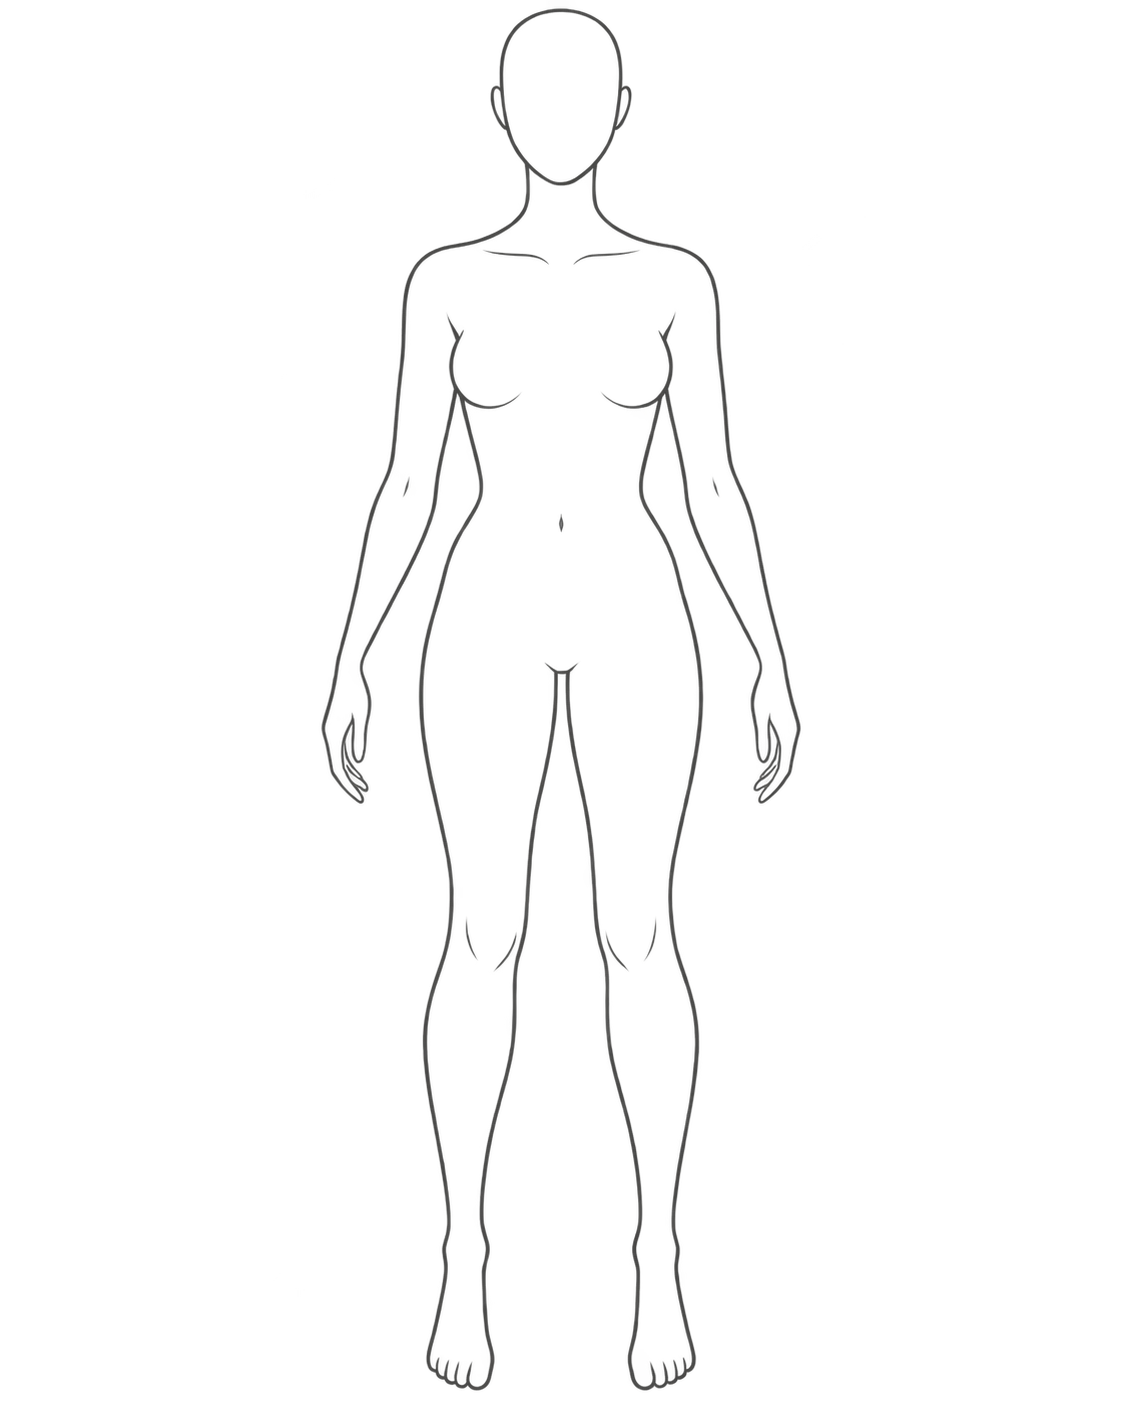
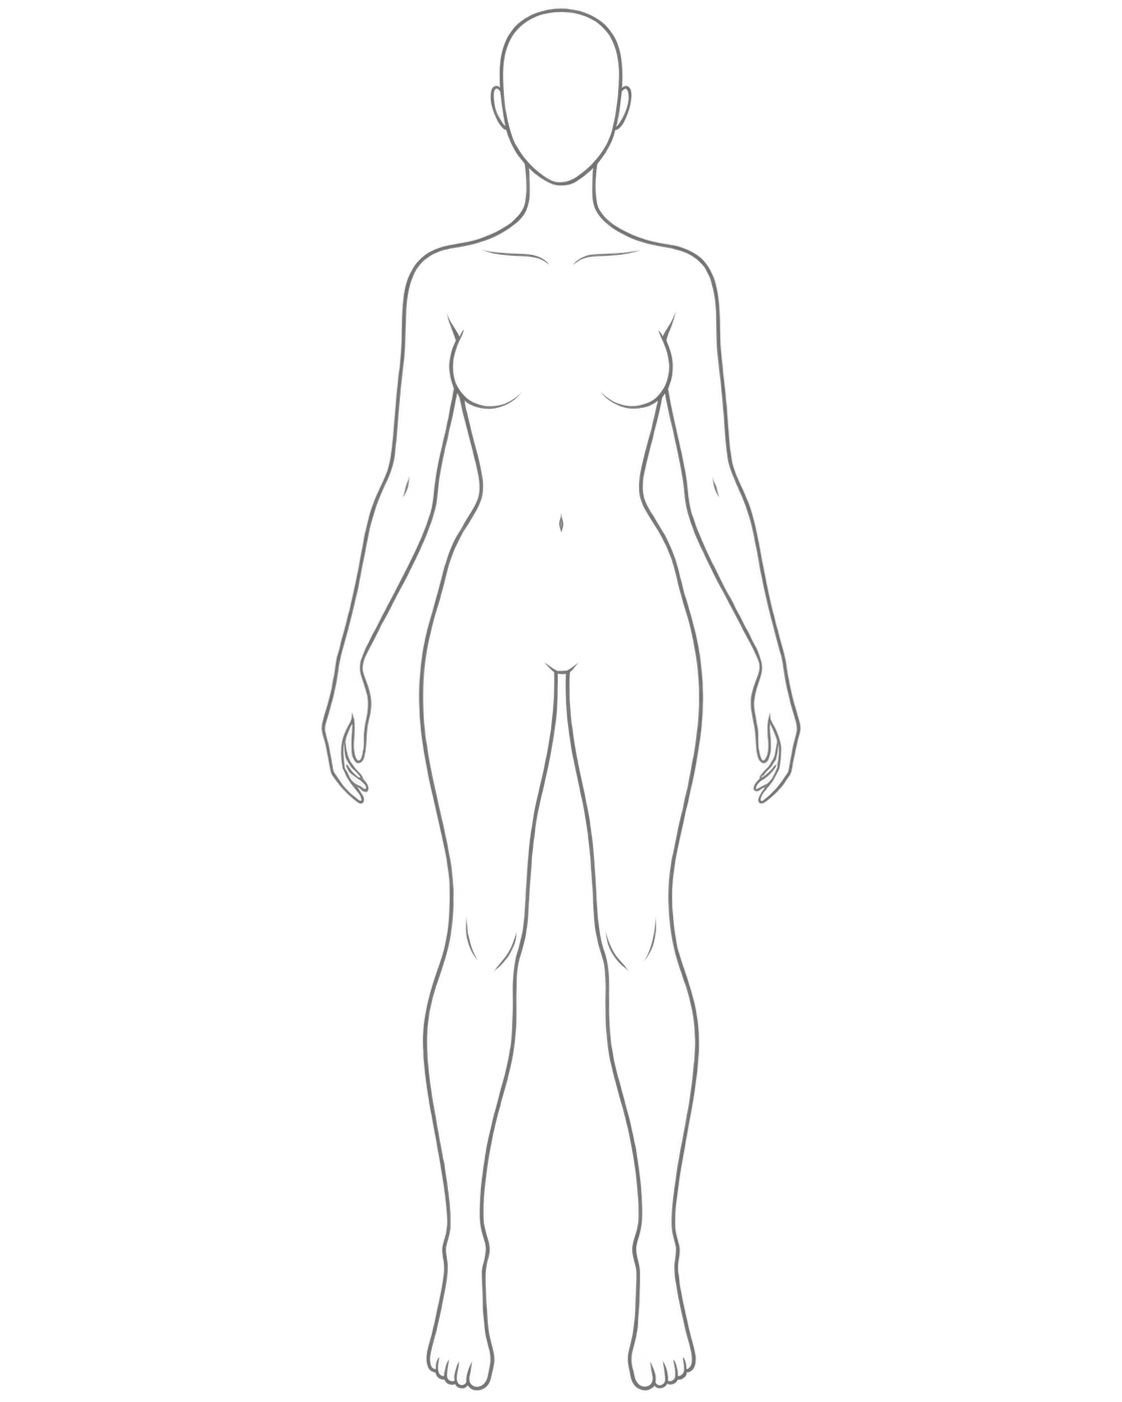
fix(injetaveis): normaliza o peso do traco das ilustracoes novas
As tres artes novas chegaram mais escuras que a original e, ao lado dela,
pareciam de outro conjunto — o Heitor notou na hora. Medindo a luminancia media
dos pixels opacos: rosto feminino (a que ja estava no produto) 109, rosto
masculino 64, corpo feminino 67, corpo masculino 87. O masculino tinha tambem
50% mais tinta por pixel de tela.

As tres foram levadas para os mesmos 109. A conta e feita sobre a TINTA
(255 - luminancia), escalada por um fator: clareia preservando matiz e alfa, e
a borda do desenho continua nitida — mexer no alfa deixaria o traco lavado. O
que sobra de diferenca entre elas e desenho, nao cor: o rosto masculino tem
mais linhas (cabelo, sombreado), e isso e caracteristica da arte.

O criterio ficou em `injectable-outline.tsx`, ao lado do aviso de proporcao:
arte nova entra pelo mesmo crivo.

Claude-Session: https://claude.ai/code/session_01G6QBsw8e98PDrPDhcqP45R

diff --git a/apps/web/components/shared/injectable-outline.tsx b/apps/web/components/shared/injectable-outline.tsx
@@ -14,6 +14,13 @@ import type { InjectableView } from '@/lib/anamnesis'
  * de ilustração não desloca ponto nenhum. **Arte nova com outra proporção exige
  * acertar as duas coisas juntas**, senão o desenho ganha faixa vazia dos lados
  * e os pontos deixam de casar com ele.
+ *
+ * ⚠ O peso do traço também é padronizado: **luminância média ≈ 109 nos pixels
+ * opacos**, que é a do `mockup-rosto.png` original. As artes novas chegaram bem
+ * mais escuras (o rosto masculino em 64) e, ao lado da primeira, pareciam de
+ * outro conjunto. O acerto é feito na TINTA (255 − luminância), escalada por
+ * um fator: clareia preservando matiz e alfa, e a borda do desenho continua
+ * nítida — mexer no alfa deixaria o traço lavado.
  */
 
 export const MAP_VIEWBOX = { width: 200, height: 250 }

diff --git a/DEVLOG.md b/DEVLOG.md
@@ -176,6 +176,12 @@ quatro imagens têm a proporção do viewBox (1122×1402 ≈ 0,80 / 200×250), e
 trocar de vista não desloca ponto nenhum. Ponto sem vista é do rosto feminino,
 que era o único desenho até aqui.
 
+As artes novas chegaram mais escuras que a original — o rosto masculino com
+luminância média de traço 64 contra 109 — e ao lado dela pareciam de outro
+conjunto. Foram normalizadas para os mesmos 109, escalando a tinta
+(255 − luminância) e preservando matiz e alfa. **Arte nova entra pelo mesmo
+crivo**; o critério está em `injectable-outline.tsx`.
+
 ---
 
 ## 4. Decisões de produto
